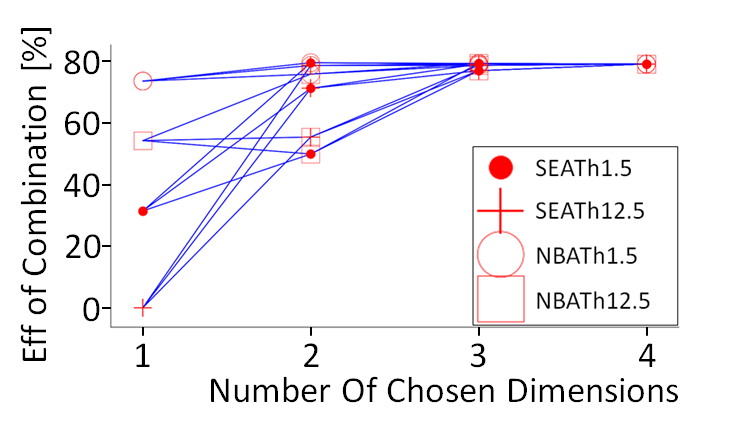
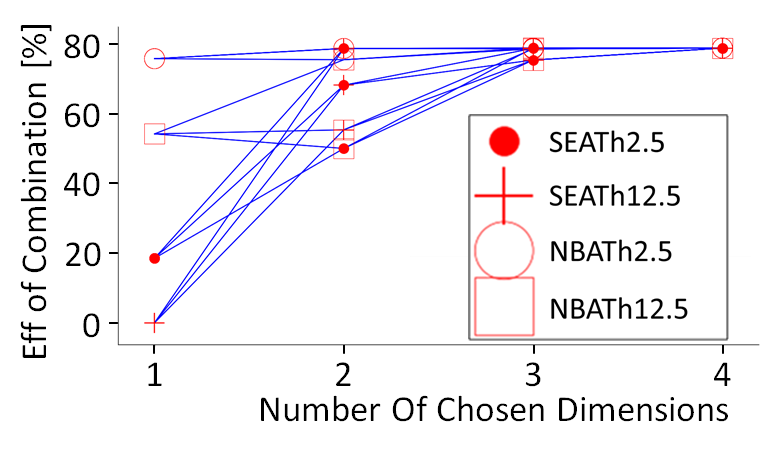
Alpha plots improved slightly

diff --git a/Chapter4.5/chapter4.5.tex b/Chapter4.5/chapter4.5.tex
@@ -1,6 +1,8 @@
 
 \chapter{Full Detector Simulation And Evaluation}\label{chp:DataAnalysisTechniques}
 
+In this chapter the individual effects from each component are added to model the mass increase. This allows for a machine learning study to asses weather machine learning is a suitable technique for the trigger data for the upgraded detector. The results from a reasonably advanced technique suggests that machine learning is effective at finding suitable boundaries and reducing the dimensionality of trigger data but that complex boundaries are unnecessary. Then cosmic $\mu$ are modelled using the CRY library \cite{ieee_cry_2007} and once they have been successfully modelled a cosmic $\mu$ tracker is built using a simulated cosmic $\mu$ hemisphere. This tracker does not seem to add any significant bias to the reconstruction of cosmic $\mu$ events.
+
 \section{Modelling The Mass Increase}
 The number of layers in the RMon detector was 49 out of a possible 70 the upgrade will therefore add $\sim$ 43\,\% additional mass into the detector compared to the RMon detector. In reality, out of a possible 1862 channels in RMon, only 1793 were instrumented due to limitations in securing enough parts. Never the less the simulation will focus on the theoretical maximum number of bars in both cases for the sake of simplicity. As can be seen from figure \ref{fig:prototypeMeasumentFlux} there is an expectation of $\sim$ 200 $\Bar{\nu_e}$ a day and so from the upgraded detector, it is reasonable to assume a rate of $\sim$ 300 $\Bar{\nu_e}$ a day with the additional mass. But in addition, the quality of each event will also improve as more of the energy from the 8\,MeV $\gamma$ cascade is kept within the bounds of the detector. The amount of energy deposited in the detector will be considered the ``containment'' of the cascade where containment of 100\,\% would mean 100\,\% of the energy is deposited in the detector. And as figure \ref{fig:containment_comparison} shows the quality of the containment improves with more mass. %In figure \ref{fig:containment_comparison} it can be seen that the quality of the containment increases when the additional mass has been added. 
 
@@ -84,10 +86,10 @@ A direct comparison between DT, knn, linear (no kernel) SVM and RBF SVM classifi
 \centering
 \begin{tabular}{lll}  
 \toprule
-Dimension               & Th 1.5\,PE (0.06\,MeV) & Th 12.5\,PE (0.5\,MeV)\\
+Dimension               & Th 2.5\,PE (0.1\,MeV) & Th 12.5\,PE (0.5\,MeV)\\
 \midrule
-\# of Bars Hit Above Th &  NBATh$_{1.5}$         & NBATh$_{12.5}$\\
-Summed Energy Above Th  &  SEATh$_{1.5}$         & SEATh$_{12.5}$\\
+\# of Bars Hit Above Th &  NBATh$_{2.5}$        & NBATh$_{12.5}$\\
+Summed Energy Above Th  &  SEATh$_{2.5}$        & SEATh$_{12.5}$\\
 \bottomrule  
 \end{tabular}
 \caption{A table showing the 4 dimensions that the trigger can have. The word threshold is abbreviated to Th for convenience.}
@@ -95,7 +97,7 @@ Summed Energy Above Th  &  SEATh$_{1.5}$         & SEATh$_{12.5}$\\
 \end{table*}
 
 %Nyström
-% Figures \ref{fig:sklearnReleventExamples} \ref{fig:svmBoser92LinearSVM} \ref{fig:kernelRBF_fromWeB} \ref{fig:kernelRBF_fromWeB} \ref{fig:svmExp_GausseExamples} are sufficient reason to believe that an SVM with an RBF kernel should be a suitable classifier for separating trigger data that only has four dimensions. The four dimensions that need to be optimised are: the summed energy above a threshold of 1.5\,PE (0.06\,MeV), summed energy above a threshold of 12.5\,PE (0.5\,MeV), Numbers of bars hit above a threshold of 1.5\,PE (0.06\,MeV), Numbers of bars hit above threshold 12.5\,PE (0.5\,MeV). The libraries used were LIBSVM and LIBLINEAR both of which are highly provident and often cited as the reason for the SVMs gain in popularity \cite{chang2011libsvm} \cite{fan2008liblinear} \cite{murty2016support}. The wrapper in sci-kit learn was the preferred method due to its ease of use and its convenient application of the Nystrom approximation \cite{williams2001using} of the kernel. The Nystroem approximation is useful as the amount of computation required for a complete kernel SVMs scales $\sim$ O (n$^3$) where n is the number of training examples \cite{williams2001using}. By using a sample of size m to compute an approximation of the kernel the amount of computation required scales $\sim$ O (m$^2$n) instead \cite{williams2001using}. This approach will work even when m $\ll$ n \cite{williams2001using}. The example data shown in figure \ref{fig:svmExp_GausseExamples} shows how LIBLINEAR when combined with with an RBF Nystroem approximated kernel performs in comparison to LIBSVM with a complete RBF kernel the boundaries are very similar. From this point, the LIBLINEAR library and the Nystroem approximation will be used to speed up training and to prevent memory overflow which can happen when the SVM isn't converging and when large data sets are used. The simulated data set has 1 million neutron signal events and 4 million background events.
+% Figures \ref{fig:sklearnReleventExamples} \ref{fig:svmBoser92LinearSVM} \ref{fig:kernelRBF_fromWeB} \ref{fig:kernelRBF_fromWeB} \ref{fig:svmExp_GausseExamples} are sufficient reason to believe that an SVM with an RBF kernel should be a suitable classifier for separating trigger data that only has four dimensions. The four dimensions that need to be optimised are: the summed energy above a threshold of 2.5\,PE (0.1\,MeV), summed energy above a threshold of 12.5\,PE (0.5\,MeV), Numbers of bars hit above a threshold of 2.5\,PE (0.1\,MeV), Numbers of bars hit above threshold 12.5\,PE (0.5\,MeV). The libraries used were LIBSVM and LIBLINEAR both of which are highly provident and often cited as the reason for the SVMs gain in popularity \cite{chang2011libsvm} \cite{fan2008liblinear} \cite{murty2016support}. The wrapper in sci-kit learn was the preferred method due to its ease of use and its convenient application of the Nystrom approximation \cite{williams2001using} of the kernel. The Nystroem approximation is useful as the amount of computation required for a complete kernel SVMs scales $\sim$ O (n$^3$) where n is the number of training examples \cite{williams2001using}. By using a sample of size m to compute an approximation of the kernel the amount of computation required scales $\sim$ O (m$^2$n) instead \cite{williams2001using}. This approach will work even when m $\ll$ n \cite{williams2001using}. The example data shown in figure \ref{fig:svmExp_GausseExamples} shows how LIBLINEAR when combined with with an RBF Nystroem approximated kernel performs in comparison to LIBSVM with a complete RBF kernel the boundaries are very similar. From this point, the LIBLINEAR library and the Nystroem approximation will be used to speed up training and to prevent memory overflow which can happen when the SVM isn't converging and when large data sets are used. The simulated data set has 1 million neutron signal events and 4 million background events.
 
 There is also another issue when using a kernel SVM, the kernel itself greatly increase computational requirement. A linear (no kernel) SVM requires computational power that scales O $\sim$ n$^2$ (where n is the number of training samples) \cite{cortes1995support}. But when a kernel is used the computational power required scales with O $\sim$ n$^3$ instead \cite{williams2001using}. In order to mitigate this an approximate kernel is created via the Nyström method. By using a sample size of m to compute this approximate kernel the computation requirement scales with O $\sim$ mn$^2$ \cite{williams2001using}. This approach will work effectively even when m << n \cite{williams2001using}. 
 \\\\Due to it's preexisting implementation of the Nyström kernel approximation the wrapper scikit-learn was chosen as it saved development time \cite{scikit-learn}. Scikit-learn uses LIBSVM \cite{chang2011libsvm} and LIBLINEAR \cite{fan2008liblinear} both of which are highly provident and often cited as the reason for the SVM's gain in popularity \cite{murty2016support}. In figure \ref{fig:svmExp_GausseExamples} a non-linear data set with two Gaussian signal distributions and an exponential distribution in (x,y) for noise is separated with LIBSVM using an RBF kernel (figure \ref{subFig:svmExp_2GausseExample}) and LIBLINEAR using an approximated Nyström kernel (figure \ref{subFig:exp_2NysGaussExample}). The example data shown in figure \ref{fig:svmExp_GausseExamples} shows how LIBLINEAR when combined with a Nyström approximated kernel performs to a similar standard to LIBSVM with a full RBF kernel, the boundaries are extremely similar. It also shows that scikit-learn's implementation of the Nyström method is quite accurate and can be trusted. From this point the LIBLINEAR library and the Nyström approximated RBF kernel will be used to speed up training and prevent an excess use of computational resource. Considering the strengths of SVMs, the low dimensionality of the trigger data, and the effective use of available computational resource the approximate RBF SVM should be more than sufficient for separating out the 1 million generated signal events and the 4 million generated background events. 
@@ -140,8 +142,8 @@ Kernel SVMs have two factors that can be tuned to give more accurate results. Th
 \end{minipage}
 \end{figure}
 
-%NBATh$_{1.5}$ & NBATh$_{12.5}$ SEATh$_{1.5}$ & SEATh$_{12.5}$\\
-Once C and $\gamma$ have been chosen a basic form of dimensional reduction was done to assess the impact each dimension has on the classifier (see figure \ref{fig:accNeutronSVMC1e6_g1e-6}). In figure \ref{fig:accNeutronSVMC1e6_g1e-6} the addition of more dimensions beyond 2 does not seem to increase accuracy suggesting that not all of the information provided by the emulated trigger is useful. This is also true for the efficiency as seen in figure \ref{fig:effNeutronSVMC1e6_g1e-6} and the purity as seen in figure \ref{fig:purNeutronSVMC1e6_g1e-6}. This shows that not only is the data linearly separable, it is actually 2d linearly separable, meaning it is extremely easy for any machine learning algorithm to separate. Let alone one as powerful as the RBF SVM, this technique is overkill for this particular data set, hence why a DLNN has not been pursued for this data set. The most accurate would be the SEATh$_{1.5}$ + NBATh$_{1.5}$. However, the option: NBATh$_{1.5}$ + NBATh$_{12.5}$ is easier to implement for the electronics on VIDARR. The drop in accuracy, efficiency, and purity is relatively low for this combination and therefore it is the preferred option. 
+%NBATh$_{2.5}$ & NBATh$_{12.5}$ SEATh$_{2.5}$ & SEATh$_{12.5}$\\
+Once C and $\gamma$ have been chosen a basic form of dimensional reduction was done to assess the impact each dimension has on the classifier (see figure \ref{fig:accNeutronSVMC1e6_g1e-6}). In figure \ref{fig:accNeutronSVMC1e6_g1e-6} the addition of more dimensions beyond 2 does not seem to increase accuracy suggesting that not all of the information provided by the emulated trigger is useful. This is also true for the efficiency as seen in figure \ref{fig:effNeutronSVMC1e6_g1e-6} and the purity as seen in figure \ref{fig:purNeutronSVMC1e6_g1e-6}. This shows that not only is the data linearly separable, it is actually 2d linearly separable, meaning it is extremely easy for any machine learning algorithm to separate. Let alone one as powerful as the RBF SVM, this technique is overkill for this particular data set, hence why a DLNN has not been pursued for this data set. The most accurate would be the SEATh$_{2.5}$ + NBATh$_{2.5}$. However, the option: NBATh$_{2.5}$ + NBATh$_{12.5}$ is easier to implement for the electronics on VIDARR. The drop in accuracy, efficiency, and purity is relatively low for this combination and therefore it is the preferred option. 
 
 \begin{figure}[!h]
 \centering
@@ -168,8 +170,7 @@ Once C and $\gamma$ have been chosen a basic form of dimensional reduction was d
 \end{figure}
 
 The chosen classifier is seen in figure \ref{fig:signalAndNoiseNeutronSVM_C1e6_g1e-6}, which as figure \ref{fig:purNeutronSVMC1e6_g1e-6} indicates is a linear classifier with minimal overlap between the signal noise. In figure \ref{fig:signalAndNoiseNeutronSVM_C1e6_g1e-6} anything to the left of the line is considered a noise event and anything to the right of the line is considered a neutron event. The effect of this selection criteria can be seen in figure \ref{fig:summedEnergyPastTriggerGdDicebox} which shows the summed energy that makes it past the emulated trigger. The amount of summed energy past the emulated trigger is overwhelmingly dominated by the 8\,MeV $\gamma$ cascade from the neutron absorption. The only events that are able to make it past the emulated trigger are the electrons with high generated kinetic energies (past $\sim$ 4\,MeV) as seen in figure \ref{fig:GeneratedEnergyPastTriggerGdDicebox} but they are unlikely to be present when in sufficient quantities when the detector is deployed. 
-\\\\ 
-\\\\These results show two points. The first is that the RBF SVM is significantly more capable than required for separating the trigger data. The seconds is that the VIDARR trigger should be very effective at distinguishing the $\gamma$ cascade from background expected at reactor sites. This is highly encouraging as it indicates that VIDARR's segmentation and technology are well suited to resolving the trigger signal from noise. It is possible that smaller segmentation will yield better results but considering the high simulated efficiency (75.6\,\%) it is unlikely to improve significantly. As a result, it can be concluded that VIDARR's segmentation is in a ``sweet spot'' where the signal is easy to separate whilst retaining relevant information. So much so that machine learning cannot improve upon it. This conclusion will also be reinforced by the cosmic $\mu$ tomography results in chapter \ref{chp:cosmicMuonTomography}.
+\\\\These results show two points. The first is that the RBF SVM is significantly more capable than required for separating the trigger data. The seconds is that the VIDARR trigger should be very effective at distinguishing the $\gamma$ cascade from background expected at reactor sites. This is highly encouraging as it indicates that VIDARR's segmentation and technology are well suited to resolving the trigger signal from noise. It is possible that smaller segmentation will yield better results but considering the high simulated efficiency (75.3\,\%) it is unlikely to improve significantly. As a result, it can be concluded that VIDARR's segmentation is in a ``sweet spot'' where the signal is easy to separate whilst retaining relevant information. So much so that machine learning cannot improve upon it. This conclusion will also be reinforced by the cosmic $\mu$ tomography results in chapter \ref{chp:cosmicMuonTomography}.
 
 \begin{figure}[!h]
 \centering
@@ -187,7 +188,7 @@ The chosen classifier is seen in figure \ref{fig:signalAndNoiseNeutronSVM_C1e6_g
   \caption{}
   \label{subFig:signalNeutronSVM_C1e6_g1e-6}
 \end{subfigure}
-\caption{A 2d SVM classifier trained on signal and noise data with the number of bars hit above 1.5\,PE (0.06\,MeV) and the number of bars hit above 12.5\,PE (0.5\,MeV) with a Nystrom approximate RBF kernel with a sampling of 100, C value of 10$^6$ and $\gamma$ value of 10$^{-6}$. The generated noise is seen in (a) the generated signal (neutron induced Gd cascade) is shown in (b). Support vectors are shown by the dashed lines. The decision boundary is shown by the solid line.}
+\caption{A 2d SVM classifier trained on signal and noise data with the number of bars hit above 2.5\,PE (0.1\,MeV) and the number of bars hit above 12.5\,PE (0.5\,MeV) with a Nystrom approximate RBF kernel with a sampling of 100, C value of 10$^6$ and $\gamma$ value of 10$^{-6}$. The generated noise is seen in (a) the generated signal (neutron induced Gd cascade) is shown in (b). Support vectors are shown by the dashed lines. The decision boundary is shown by the solid line.}
 \label{fig:signalAndNoiseNeutronSVM_C1e6_g1e-6}
 \end{figure}
 
@@ -196,14 +197,15 @@ The chosen classifier is seen in figure \ref{fig:signalAndNoiseNeutronSVM_C1e6_g
 \begin{minipage}{.45\textwidth}
   \centering
   \includegraphics[width=\linewidth]{Chapter4/Figs/Raster/summedEnergyPastTriggerGdDiceboxMedText.png}
-  \captionof{figure}{The summed energy of the neutron events that survive past the trigger. The simulated neutron trigger shown in figure \ref{fig:signalAndNoiseNeutronSVM_C1e6_g1e-6}. 25\,PE = 1\,MeV overall giving an Efficiency = 75.6\,\% and purity = 93.5\,\%. Purity is determined from a background of 4 million noise events and 1 million signal events.} 
+  \captionof{figure}{The summed energy of the neutron events that survive past the trigger. The simulated neutron trigger shown in figure \ref{fig:signalAndNoiseNeutronSVM_C1e6_g1e-6}. 25\,PE = 1\,MeV overall giving an Efficiency = 75.3\,\% and purity = 91.7\,\%. Purity is determined from a background of 4 million noise events and 1 million signal events.} 
   \label{fig:summedEnergyPastTriggerGdDicebox}
+    \vspace{0.956cm} %1 line = 0.478cm % 2 lines = 0.956cm % 3 lines= 1.434cm % 4 lines = 1.912cm % 5 lines = 2.39cm
 \end{minipage}%
 \qquad
 \begin{minipage}{.45\textwidth}
   \centering
   \includegraphics[width=\linewidth]{Chapter4/Figs/Raster/GeneratedEnergyPastTriggerGdDiceboxMedText.png}
-  \captionof{figure}{The generated kinetic energy for particles which make it past the simulated neutron trigger. The only particles of concern are electrons that produce high enough energy to hit many bars and produce showers. Background electrons with energies > $\sim$4\,MeV are unlikely to be prevalent during deployment.}
+  \captionof{figure}{The generated kinetic energy for particles which make it past the simulated neutron trigger. The only particles of concern are electrons that produce high enough energy to hit many bars and produce showers. Background electrons with energies > $\sim$4\,MeV are unlikely to be prevalent during deployment. Simulated neutron kinetic energies were  1/40$^\textrm{th}$ of an eV 0$^\textrm{th}$ neutron bin goes up to $\sim 7.5 \times 10^5$.  }
   \label{fig:GeneratedEnergyPastTriggerGdDicebox}
 \end{minipage}
 \end{figure}
@@ -394,7 +396,7 @@ In conclusion, $\mu$ modelling is important becomes for above ground reactor ope
 \section{Creating A $\mu$ Tracker Through The Simulation Of A Cosmic $\mu$ Hemisphere}\label{sec:SimulationOfCosmics}
 % Before the data could be analysed a simulation of cosmic $\mu$ using a cosmic hemisphere was used in order to quantify segmentation and other detector effects. These effects can be quite significant as seen in figures \ref{subFig:phiGenVsRecoHem} and \ref{subFig:cirPhiGenVsRecoHem} the reconstruction of the RMon detector can be quite adversely affected by vertical events. If an event is vertical in one side of the detector then the other side will dominate as such it results in spikes at $\phi$ = 0$^\circ$, $\phi$ = 90$^\circ$, $\phi$ = 180$^\circ$, $\phi$ = 270$^\circ$. This bin migration is caused by the detector being a segmented cuboid. Any segmented cuboid detector will not cleanly represent a hemispherical distribution. Figures \ref{fig:cosmicBinMigrationSideA} and \ref{fig:cosmicBinMigrationSideB} show how the segmentation of the RMon/VIDARR detectors cause bin migration. For figure \ref{fig:cosmicBinMigrationSideA} angles of $\phi$ are solely determined by the direction in side A the same is true for side B in figure \ref{fig:cosmicBinMigrationSideB}. 
 Any segmented cuboid detector will not cleanly represent a hemispherical distribution. 
-A cuboid detector will have a different ``footprint'' in $\phi$ as $\theta$ increases towards the sky. When tracks are vertical ($\theta = 90^\circ$) the footprint is a 1.5\,m$^2$ in $\phi$ resulting in peaks at $\theta$ of 45$^\circ$, 135$^\circ$, 225$^\circ$, 315$^\circ$ and troughs $\theta$ of 0$^\circ$, 90$^\circ$, 180$^\circ$, 270$^\circ$. In figure \ref{fig:linCirPhiGenVsRecoHem} a clear oscillating pattern can be seen peaking at $\phi$ values of 45$^\circ$, 125$^\circ$, 275$^\circ$, 315$^\circ$ in the reconstruction which is not present in the generated. This is a result of the cuboid shape of the detector. The small square footprint slowly morphs into a circle with an almost infinite radius when the events are horizontal ($\theta = 0^\circ$). As such any cuboid detector will have a morphing $\phi$ distribution from square at $\theta = 90^\circ$ to circle at $\theta = 0^\circ$.
+A cuboid detector will have a different ``footprint'' in $\phi$ as $\theta$ increases towards the sky. When tracks are vertical ($\theta = 90^\circ$) the footprint is a 2.5\,m$^2$ in $\phi$ resulting in peaks at $\theta$ of 45$^\circ$, 135$^\circ$, 225$^\circ$, 315$^\circ$ and troughs $\theta$ of 0$^\circ$, 90$^\circ$, 180$^\circ$, 270$^\circ$. In figure \ref{fig:linCirPhiGenVsRecoHem} a clear oscillating pattern can be seen peaking at $\phi$ values of 45$^\circ$, 125$^\circ$, 275$^\circ$, 315$^\circ$ in the reconstruction which is not present in the generated. This is a result of the cuboid shape of the detector. The small square footprint slowly morphs into a circle with an almost infinite radius when the events are horizontal ($\theta = 0^\circ$). As such any cuboid detector will have a morphing $\phi$ distribution from square at $\theta = 90^\circ$ to circle at $\theta = 0^\circ$.
 \begin{figure}[!h]
 \centering
 \begin{subfigure}{.5\textwidth}

diff --git a/Chapter4/chapter4.tex b/Chapter4/chapter4.tex
@@ -10,7 +10,7 @@
     \graphicspath{{Chapter4/Figs/Vector/}{Chapter4/Figs/}}
 \fi
 
-This chapter will focus on the GEANT4 simulation of the RMon and VIDARR detectors including the mass increase and upgraded electronics of VIDARR. In addition, the modelling of the GEANT4 light output will be covered. This is done to decrease the computational load whilst having a realistic light model based on the MINER$\nu$A Birks' constant and test stand data. Also attenuation and counting statistics are modelled for increased real world accuracy. Finally, a brief machine learning study is conducted using a hybrid Gadolinium model based on GEANT4's final state model and the DANCE $^{157}$Gd Dicebox.
+This chapter will focus on simulating each individual component of the upgraded detector in GEANT4 \cite{Agostinelli:2002hh}. This will start by modelling the via Birks' law and the logic behind this approximation of light output. Then the MINER$\nu$A Birks' constant will be touched upon which is as that experiment uses the same scintillator as the VIDARR detector. Then the Birks' approximation is compared to the light output in GEANT4 for each particle using a ``slice''  model to approximate a small travel in the detector and a ``slab'' model to test that approximation. Then a single bar is modelled through test stand data to create data-driven representations of the attenuation and dark noise. The effect of the TiO$_2$ coatings is also observed as it is relevant for especially heavy particles such as protons. This is all pulled together by analysing the effects of quenching on the particles and the effects of counting statistics on the simulation by looking at $\alpha$ particles. Once the noise particles have been modelled the trigger signal (the Gadolinium cascade) is modelled via a hybrid Gadolinium model based on GEANT4's final state model and the DANCE $^{157}$Gd Dicebox. 
 
 \section{GEANT4 Overview}\label{sec:GEANT4Simulation_g4Overview}
 The VIDARR detector is represented in a GEANT4 simulation which is a provident physics simulation package. According to the GEANT4 collaboration GEANT4 ``covers a comprehensive range including electromagnetic, hadronic and optical processes and a large set of long-lived particles materials and elements over a wide energy range starting in some cases from 250\,eV and extending in others to the TeV range'' \cite{Agostinelli:2002hh}. Considering that the energy range for IBD is $\sim$ 1.8\,MeV -- $\sim$ 8.5\,MeV \cite{Mueller_2011} this simulation package meets the needs of the VIDARR collaboration. IBD produces e$^+$ and neutrons (see equation \ref{inverse_beta_decay}) whilst the simulation of e$^+$ is reasonably straight forward the simulation of the neutrons is more complex. This is due to the gadolinium sulphate sheets that capture the neutrons and emit an 8\,MeV $\gamma$ cascade. The Gadolinium cascade is hard to model accurately due to the high energies and number of nucleons involved ($>$ 150).
@@ -332,19 +332,19 @@ The plastic scintillating bars of the VIDARR detector are extruded at Fermilab a
 \centering
 \begin{subfigure}{.5\textwidth}
   \centering
-  \includegraphics[width=\linewidth]{Chapter4/Figs/muon_TiO2_hybridMedText.png}
+  \includegraphics[width=\linewidth]{Chapter4/Figs/Raster/electronEdepTiO2Coating.png}
   \captionsetup{width=.9\linewidth}
   \caption{}
   \label{subFig:proton_TiO2}
 \end{subfigure}%
 \begin{subfigure}{.5\textwidth}
   \centering
-  \includegraphics[width=\linewidth]{Chapter4/Figs/proton_TiO2_hybridMedText.png}
+  \includegraphics[width=\linewidth]{Chapter4/Figs/Raster/protonsEdepTiO2Coating.png}
   \captionsetup{width=.9\linewidth}
   \caption{}
   \label{subFig:muon_TiO2}
 \end{subfigure}
-\caption{The average dE/dx for generated protons deposited in a single bar of scintillator the \%  of TiO$_2$ coating has significant impact except towards higher energies. The average dE/dx for generated cosmic $\mu$ deposited in a single bar of scintillator the \% of TiO$_2$ has some impact on the dE/dx at low energies.}
+\caption{(a) The average energy deposited for generated protons deposited in a single bar of scintillator the \%  of TiO$_2$ coating has significant impact at lower energies. (b) The average energy deposited for generated electrons deposited in a single bar of scintillator the \% of TiO$_2$ has no significant impact.}
 \label{fig:muonProton_TiO2}
 \end{figure}
 
@@ -459,7 +459,7 @@ The effects of quenching are mores significant for the heavier charged particles
 \centering
 \begin{minipage}{.45\textwidth}
   \centering
-  \includegraphics[width=\linewidth]{Chapter4/Figs/Raster/truth_vs_summed_alphaMedText.png}
+  \includegraphics[width=\linewidth]{Chapter4/Figs/Raster/truth_vs_summed_alphaMedTextNew.png}
   \captionof{figure}{The energy deposited in a simulated detector by $\alpha$ particles without physical and electronic effects taken into account, this is the maximum possible energy that can be deposited.} 
   \label{fig:alpha_summed_vs_truth}
   \vspace{0.478cm} %1 line = 0.478cm % 2 lines = 0.956cm % 3 lines= 1.434cm % 4 lines = 1.912cm % 5 lines = 2.39cm
@@ -467,7 +467,7 @@ The effects of quenching are mores significant for the heavier charged particles
 \qquad
 \begin{minipage}{.45\textwidth}
   \centering
-  \includegraphics[width=\linewidth]{Chapter4/Figs/Raster/truth_vs_visSummed_alpha_zoomMedText.png} 
+  \includegraphics[width=\linewidth]{Chapter4/Figs/Raster/truth_vs_visSummed_alpha_zoomMedTextNew.png} 
   \captionof{figure}{The energy deposited in a simulated detector by $\alpha$ particles when the physical effects of quenching and attenuation are taken into account. The detector effects of dark noise and counting statistics are not taken into account}
   \label{fig:alphaVisVsTruthZoom}
 \end{minipage}
@@ -475,7 +475,7 @@ The effects of quenching are mores significant for the heavier charged particles
 
 \begin{figure}[!h]
  \centering
- \includegraphics[width=0.5\linewidth]{Chapter4/Figs/Raster/truth_vs_recoSummed_alpha_zoomMedText.png}
+ \includegraphics[width=0.5\linewidth]{Chapter4/Figs/Raster/truth_vs_recoSummed_alpha_zoomMedTextNew.png}
  \captionof{figure}{The energy deposited in a simulated detector by $\alpha$ particles when the physical effects of quenching and attenuation are taken into account as well as the detector effects of dark noise and counting statistics.} 
  \label{fig:alphaRecoVsTruthZoom}
 \end{figure}
@@ -561,14 +561,14 @@ The photon evaporation model and final state model were overlapped with the meas
 
 \begin{figure}[!h]
  \centering
- \includegraphics[width=0.7\linewidth]{Chapter4/Figs/Raster/gadolinium/comparisonGd.png}
+ \includegraphics[width=0.6\linewidth]{Chapter4/Figs/Raster/gadolinium/comparisonGd.png}
  \captionof{figure}{How the photon evaporation and final state models in GEANT 4 compare to the measured spectra for natural gadolinium and Gd 155,157. High energy $\gamma$s are only present in the final state model.  * \cite{kandlakunta_2012} ** \cite{bollinger_1970} from \cite{YuChen_2015}.} 
  \label{fig:comparisonGd}
 \end{figure}
 
 \begin{figure}[!h]
  \centering
- \includegraphics[width=0.7\linewidth]{Chapter4/Figs/Raster/gadolinium/comparisonAndDiceBoxGd.png}
+ \includegraphics[width=0.6\linewidth]{Chapter4/Figs/Raster/gadolinium/comparisonAndDiceBoxGd.png}
  \captionof{figure}{Figure \ref{fig:comparisonGd} \cite{YuChen_2015} but with the Dicebox individual $\gamma$-rays for $^{157}$Gd from figure \ref{fig:energyOfCascadeOfCascadeGd} overlaid on top. The Dicebox has similar low energy $\gamma$-rays to the photon evaporation model but has more high energy $\gamma$-rays as would be expected of the Gd cascade. * \cite{kandlakunta_2012} ** \cite{bollinger_1970}.}
  \label{fig:comparisonAndDiceBoxGd}
 \end{figure}

diff --git a/Appendix1/appendix1.tex b/Appendix1/appendix1.tex
@@ -44,6 +44,13 @@
  \label{fig:exp_1GausseExample}
 \end{figure}
 
+\begin{figure}[!h]
+ \centering
+ \includegraphics[width=\linewidth]{Appendix1/Figs/25OutOf425kSamples.png}
+ \captionof{figure}{A Sample to show how the RBF kernel in figure \ref{fig:svmExp_GausseExamples} distorts the data to make it linearly separable. Every point in the training set (425 points) will be the maximum and is distorted around at once. This figure represents the first 25 points that are distorted around. The SVM will view all of the 425 graphs simultaneously to form any complex boundary. But this causes the problem to jump from a n$^2$ computational problem to an n$^3$ computational problem. } 
+ \label{fig:25OutOf425kSamples}
+\end{figure}
+
 % \section*{Windows OS}
 
 % \subsection*{TeXLive package - full version}
